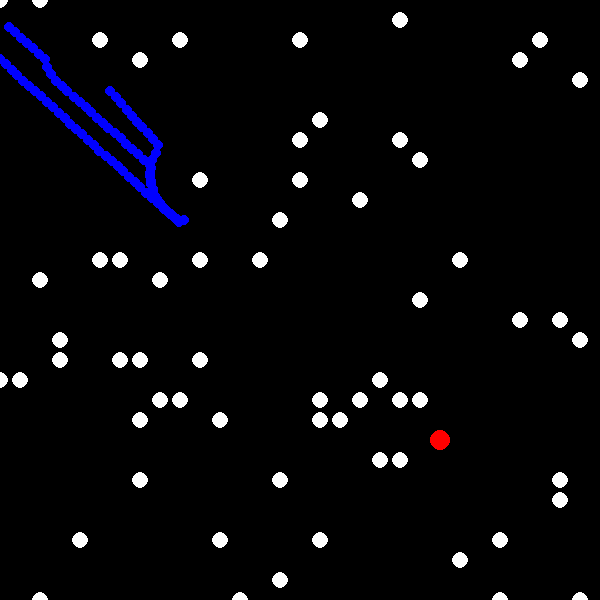
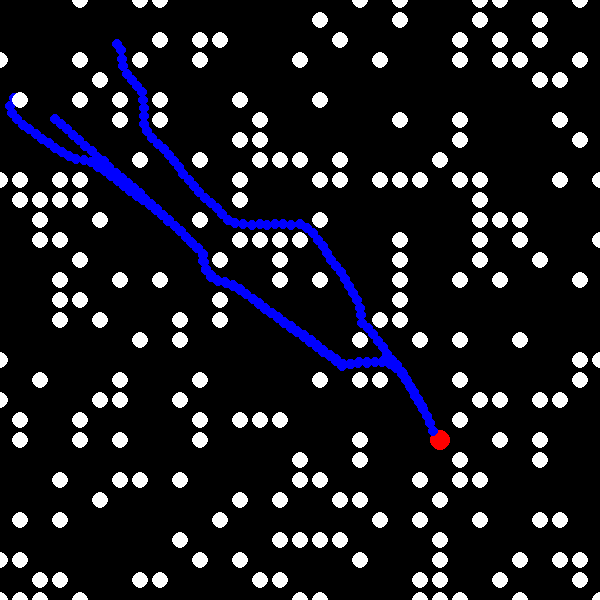
Fixed BAPF and CR-BAPF

diff --git a/Hyperparameter_tuner.py b/Hyperparameter_tuner.py
@@ -9,11 +9,14 @@ step_limit = 500
 safety_goal = 0.5 #Goals for smallest distance to target in a set of 100 succesful runs (meter)
 
 # Hyperparameters
-alpha_t = 10000  # This one is kept constant, because it is all relative
+algorithm = 1
+alpha_t = 10000
+mu_t = 0.0017
+alpha_o = 430
+mu_o = 3.6
 
-def simulate(params):
-    setup = Setup() 
-    setup.algorithm = 0
+def simulate():
+    setup = Setup(algorithm) 
 
     #Create agent
     agent = a.Agent(setup)
@@ -22,10 +25,10 @@ def simulate(params):
     env = e.Environment(setup)
 
     # Set hyperparameters
-    setup.alpha_t = alpha_t # This one is kept constant, because it is all relative
-    setup.mu_t = params[0]
-    setup.alpha_o = params[1]
-    setup.mu_o = params[2]
+    setup.alpha_t = alpha_t
+    setup.mu_t = mu_t
+    setup.alpha_o = alpha_o
+    setup.mu_o = mu_o
 
     running = True 
 
@@ -60,29 +63,16 @@ def simulate(params):
     else:
         return False
 
-def objective_function(params):
-    num_samples = 100 # Run the simulation multiple times to average out randomness
-    results = []
-    while len(results) < num_samples:
-        try:
-            min_distance = simulate(params)
-        except:
-            min_distance = False
-        if min_distance: # If the run was succesful and an actual value was presented
-            results.append(min_distance)
-    min_result = min(results)
-    difference = abs(min_result - safety_goal)
-    print("Tested some parameters with " + str(round(min_result, 2)) + " meter minimum clearance")
-    if min_result > 0.1:
-        print(params)
-        print(oiujhgfdfghjkloiuygfghjklkjhgfdgielgiel)
-    return difference
-
-bounds = [(0.001, 1), (1, 1000), (1, 1000)]
-bounds = [(0.0001, 0.01), (100, 500), (0.1, 10)]
-
-# Perform optimization
-result = differential_evolution(objective_function, bounds, tol=0.05)
-
-print("Optimized parameters:", result.x)
-print("Achieved average:", np.mean([simulate(result.x) for _ in range(100)]))
+num_samples = 1000 # Run the simulation multiple times to average out randomness
+results = []
+while len(results) < num_samples:
+    try:
+        min_distance = simulate()
+    except:
+        min_distance = False
+    if min_distance: # If the run was succesful and an actual value was presented
+        results.append(min_distance)
+min_result = min(results)
+avg_result = sum(results) / len(results)
+print("Minimum clearance: " + str(round(min_result, 3)))
+print("Average clearance: " + str(round(avg_result, 3)))

diff --git a/agent_algorithms/cr_bapf.py b/agent_algorithms/cr_bapf.py
@@ -20,22 +20,19 @@ def pos_update(agent, environment, setup):
                 obstacle_potential += setup.alpha_o * np.exp(-setup.mu_o * distance_squared)
         return target_potential + obstacle_potential
 
-    # Step 3: Set bacteria points, sorted by distance to target
+    # Step 3: Set bacteria points, find the minimum potential
     bacteria_points = [(agent.x + setup.step_size * np.cos(2* np.pi * k / setup.N_bacteria), agent.y + setup.step_size * np.sin(2* np.pi * k / setup.N_bacteria)) for k in range(setup.N_bacteria)]
-    def distance_to_target(point):
-        return ((point[0] - setup.target_x)**2 + (point[1] - setup.target_y)**2) **0.5
-    sorted_bacteria_points = sorted(bacteria_points, key=distance_to_target)
+    bacteria_potentials = [potential_field(x, y) for (x, y) in bacteria_points]
+    min_potential = min(bacteria_potentials)
 
-    # Step 4: Find the first bacteria point that has a lower potential and make a step (including random position errors)
-    J_agent = potential_field(agent.x, agent.y)
-    for (x, y) in sorted_bacteria_points:
-        if potential_field(x, y) <= J_agent:
-            new_x = np.random.normal(x, setup.step_variance)
-            new_y = np.random.normal(y, setup.step_variance)
-            return new_x, new_y
-        
-    # Step 5: If no better point was found, the agent is stuck in a local minimum
-    agent.local_minimum = True
-    return agent.x, agent.y # Return current location to avoid errors
+    # Step 4: Step to the best bacteria point (with random error), or stuck in local minimum
+    if min_potential < potential_field(agent.x, agent.y):
+        selected_point = bacteria_points[bacteria_potentials.index(min_potential)]
+        new_x = np.random.normal(selected_point[0], setup.step_variance)
+        new_y = np.random.normal(selected_point[1], setup.step_variance)
+        return new_x, new_y
+    else: # Local minimum
+        agent.local_minimum = True
+        return agent.x, agent.y
 
     

diff --git a/agent_algorithms/bapf.py b/agent_algorithms/bapf.py
@@ -22,6 +22,22 @@ def pos_update(agent, environment, setup):
         obstacle_potentials = [setup.alpha_o * np.exp(-setup.mu_o *((obstacle[0] - x)**2 + (obstacle[1] - y)**2)) for obstacle in obstacles_in_range]
         return target_potential + sum(obstacle_potentials)
 
+    # Step 3: Set bacteria points, find the minimum potential
+    bacteria_points = [(agent.x + setup.step_size * np.cos(2* np.pi * k / setup.N_bacteria), agent.y + setup.step_size * np.sin(2* np.pi * k / setup.N_bacteria)) for k in range(setup.N_bacteria)]
+    bacteria_potentials = [potential_field(x, y) for (x, y) in bacteria_points]
+    min_potential = min(bacteria_potentials)
+
+    # Step 4: Step to the best bacteria point (with random error), or stuck in local minimum
+    if min_potential < potential_field(agent.x, agent.y):
+        selected_point = bacteria_points[bacteria_potentials.index(min_potential)]
+        new_x = np.random.normal(selected_point[0], setup.step_variance)
+        new_y = np.random.normal(selected_point[1], setup.step_variance)
+        return new_x, new_y
+    else: # Local minimum
+        agent.local_minimum = True
+        return agent.x, agent.y
+    
+    """ # This is the old method 
     # Step 3: Set bacteria points, sorted by distance to target
     bacteria_points = [(agent.x + setup.step_size * np.cos(2* np.pi * k / setup.N_bacteria), agent.y + setup.step_size * np.sin(2* np.pi * k / setup.N_bacteria)) for k in range(setup.N_bacteria)]
     def distance_to_target(point):
@@ -35,9 +51,10 @@ def pos_update(agent, environment, setup):
             new_x = np.random.normal(x, setup.step_variance)
             new_y = np.random.normal(y, setup.step_variance)
             return new_x, new_y
+    
         
     # Step 5: If no better point was found, the agent is stuck in a local minimum
     agent.local_minimum = True
     return agent.x, agent.y # Return current location to avoid errors
-
+    """
     

diff --git a/main.py b/main.py
@@ -10,8 +10,13 @@ import os
 #---------Change setup settings if not standard settings----------
 
 algorithm = 0
-
-setup = Setup(algorithm) 
+setup = Setup(algorithm)
+setup.alpha_t = 10000 * 1
+setup.mu_t = 1 * 0.0017
+setup.alpha_o = 1 * 430
+setup.mu_o = 1000 * 0.0036 
+setup.obst_N_lower = 60 #influenced by values in paper 
+setup.obst_N_upper = 80
 
 setup.nr_agents = 3
 setup.visual = True 
